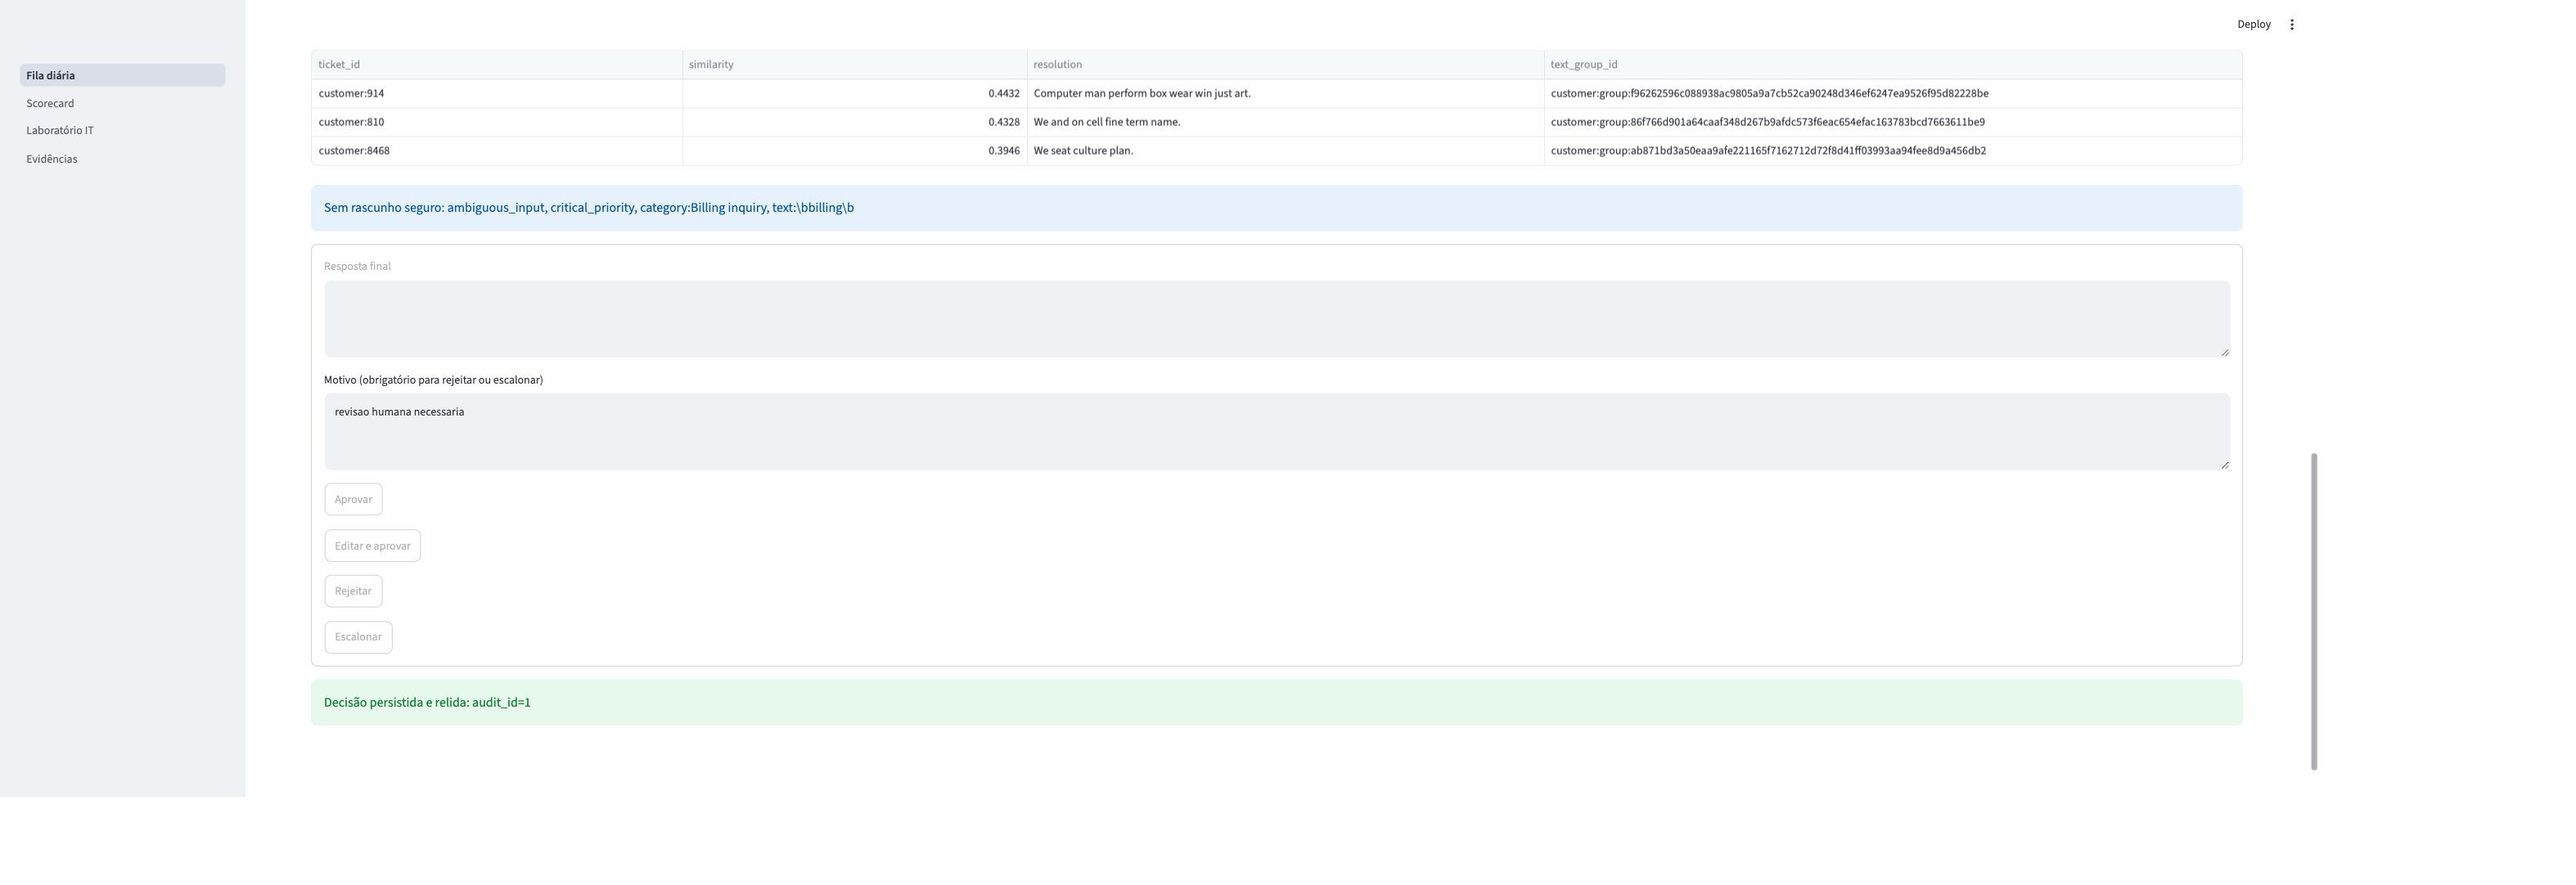
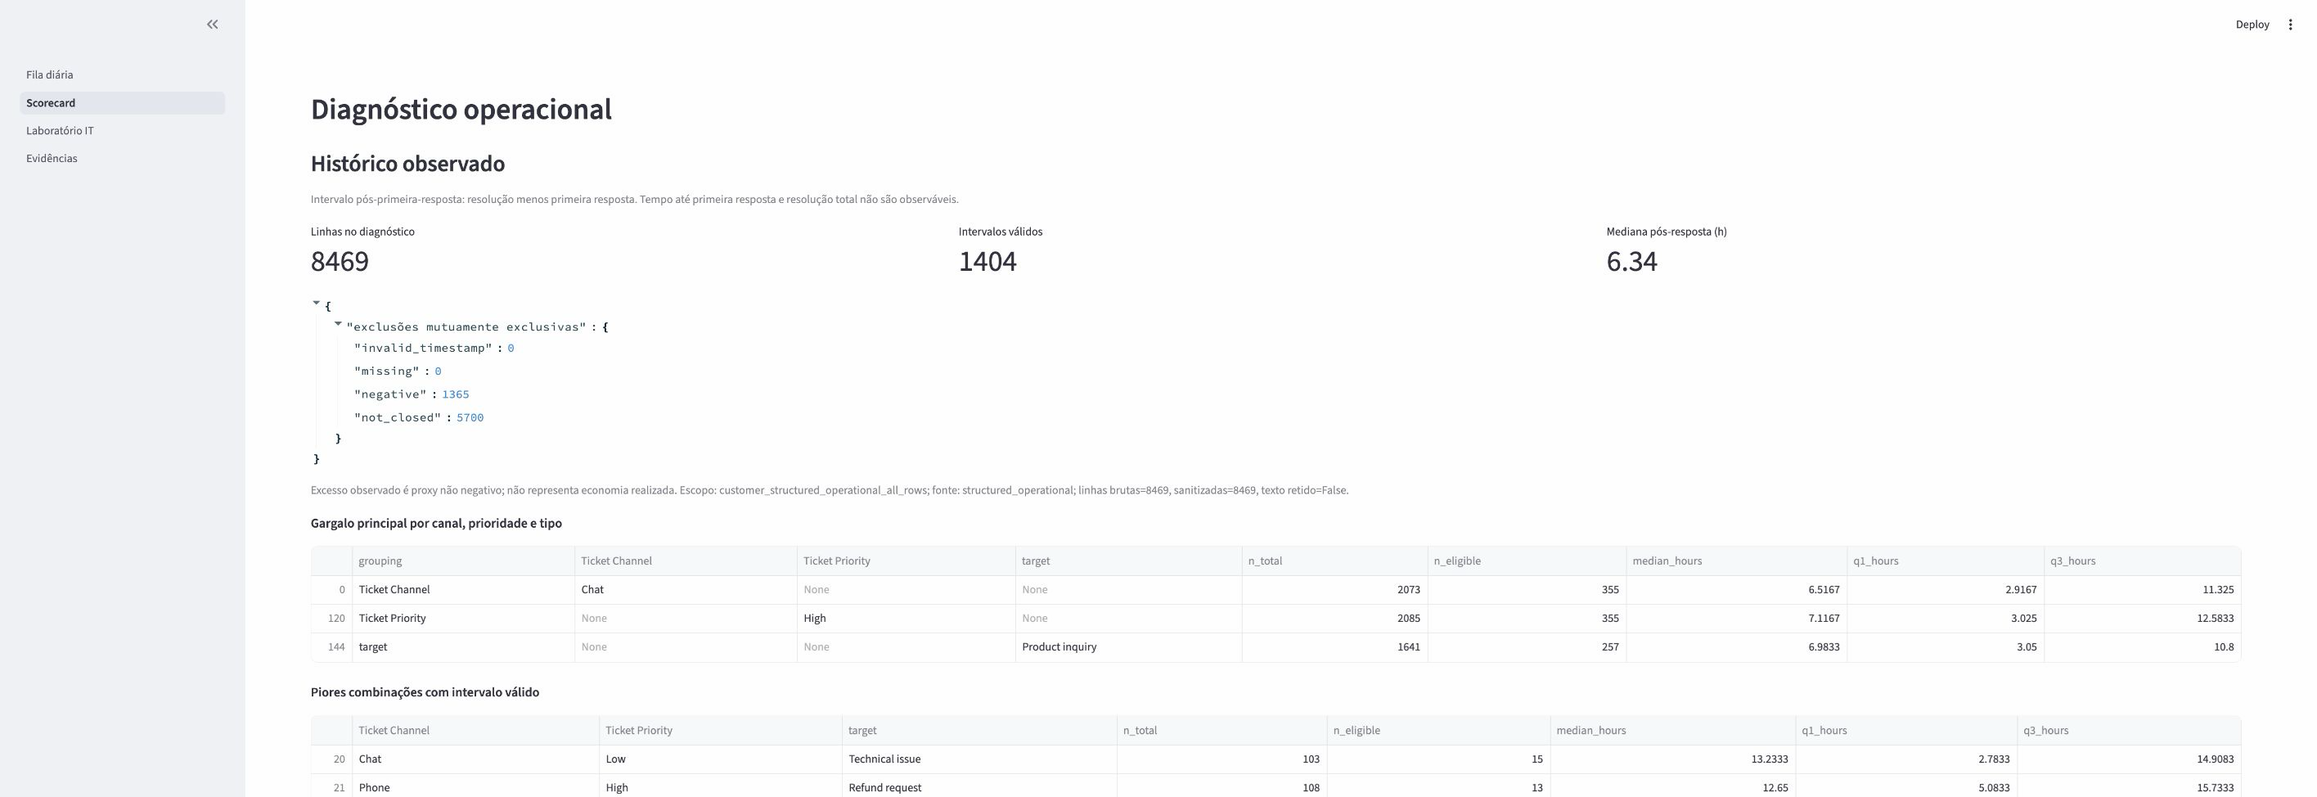
docs(support): refresh canonical final evidence

diff --git a/submissions/luis-roquette/process-log/002-support.md b/submissions/luis-roquette/process-log/002-support.md
@@ -1051,3 +1051,46 @@ Ficam fora do MVP: helpdesk real, envio de mensagens, APIs pagas, autenticação
   cenários permanecem parametrizados e o proxy não é economia realizada. Phase 3 não foi
   marcada como reviewed/done neste alinhamento; o próximo gate deve revisar o estado
   corrigido, não reutilizar o parecer baseado na SPEC sobre-especificada.
+
+## I63 — Step 10: fechamento canônico e demonstração real — 2026-09-22
+
+- **Autoridade e escopo:** a validação final voltou ao Challenge 002 e ao guia de
+  submissão. CK-12, S07 e approve/edit são extensões opcionais, não blockers do briefing.
+  Os controles de segurança permanecem: `eligible=0`, `reviewed=0`, threshold nulo,
+  drafts desativados e nenhuma rubrica ou aprovação fabricada.
+- **Reprodução desde zero:** no commit
+  `6ebd9e89799c8ae49f474d859b4a6d4f11c009b3`, o Codespace limpo removeu somente
+  `.venv`, `artifacts`, `data/raw` e `data/runtime`, todos ignorados e não rastreados.
+  `make setup`, `make data`, checksums, `make doctor` e `make reproduce` passaram.
+  Customer: `b06a9cde...bf8bea`; IT: `044fdace...dd4d4`. O tar transferido teve SHA-256
+  `4425cfed...a602a`, sem alteração rastreada.
+- **Abertura segura para demo:** o fluxo documentado `lock-review --decision disabled`
+  congelou a política como `insufficient_evidence`, `drafts_enabled=false` e
+  `threshold=null`; nova reprodução liberou a fila final sem S07. Estado real:
+  `released_after_locks`, Customer `n=231`, IT `n=5.301`, população de recuperação 224 e
+  zero elegíveis. O pacote transportado teve SHA-256 `e11a2179...d4a6a9`.
+- **Demonstração operacional real:** a fila abriu com 231 tickets e os botões de
+  aprovação/edição corretamente bloqueados. O escalonamento de `customer:2787` foi
+  persistido e relido como `audit_id=1`; após reiniciar o Streamlit, reapareceu no banco e
+  no painel. O export persistido possui uma linha, ação `escalate`, e SHA-256
+  `5d832e99...357e5b`. O Laboratório IT classificou o texto sanitizado como Hardware,
+  confiança `0,9701`, e `auto_route` no threshold `0,55`.
+- **Prova visual e diagnóstico:** a captura restrita à aba, sem dados pessoais, registra o
+  scorecard real em `2832×974`, PNG SHA-256 `bea793bc...6428cc`: 8.469 linhas, 1.404
+  intervalos e mediana pós-resposta de `6,34 h`, além dos gargalos já documentados. O CSV,
+  a imagem e os números foram vinculados em `evidence/metrics.json`; o resumo operacional
+  publicado deriva byte a byte de `artifacts/analytics/operational-summary.json`.
+- **Falhas e correções do loop:** o primeiro preflight encontrou Python diferente de 3.12;
+  o runtime 3.12 foi instalado somente no Codespace. Em seguida, as fontes estavam
+  ausentes; `make data` restaurou-as com checksums verificados. Uma asserção auxiliar
+  consultou o campo errado (`models.customer.status`); foi corrigida para o contrato real
+  (`status=released_after_locks`, `domains.customer.status=evaluated`), sem mudar produto.
+  Na demo, o primeiro motivo em português foi recusado pela quarentena conservadora; a
+  tentativa não gravou linha e foi repetida com `Critical priority requires human review.`,
+  que passou pela mesma sanitização. Nenhum gate foi relaxado.
+- **Limitações preservadas:** CK-12 continua opcional e incompleto; nenhuma avaliação
+  humana independente existe e nenhum draft seguro foi habilitado. A captura prova a UI
+  local, não envio externo. O proxy de excesso não é economia realizada; custo e moeda não
+  são observados. O gate integral do novo SHA publicado será registrado somente após
+  executar setup, dados, doctor, suíte, Ruff, reprodução, workflow, documentação e diff
+  no Codespace limpo.
